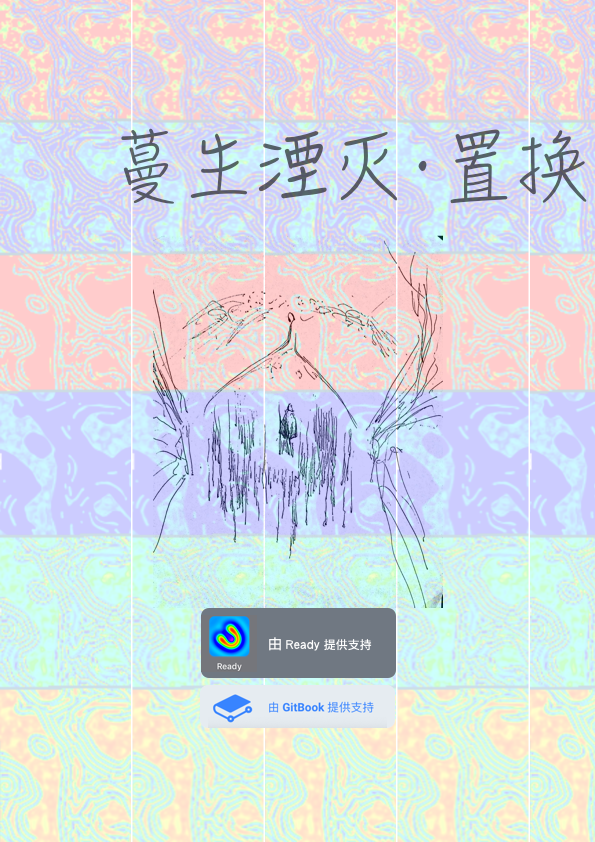
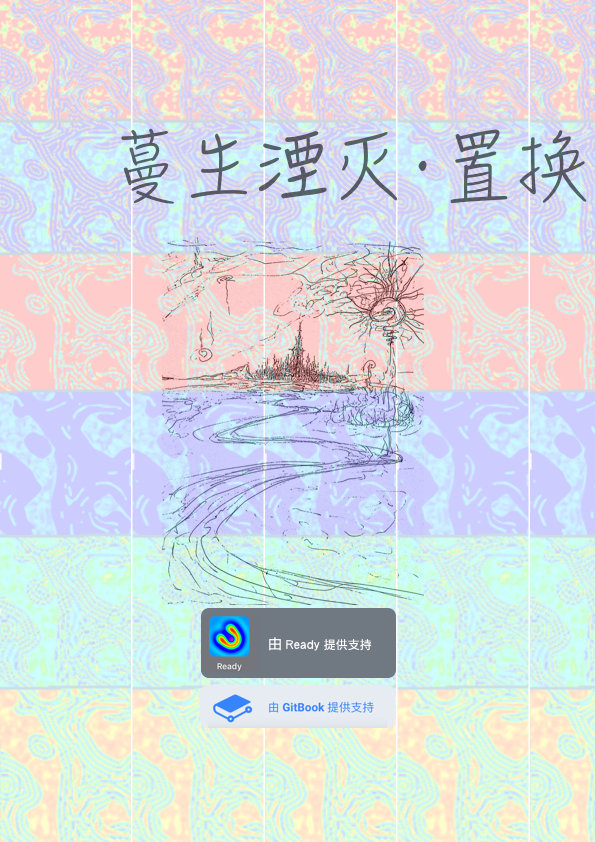
GitBook: [master] 2 pages and 2 assets modified

Changed region(s): [[0.242, 0.2779, 0.7563, 0.7411]]

diff --git a/README.md b/README.md
@@ -16,8 +16,6 @@
 
 《蔓生湮灭·置换》—— 若尘界，废土
 
-![](.gitbook/assets/4.png)
-
 《蔓生湮灭·言零》—— 言晦界，远程传送与超时空干涉
 
 ![](.gitbook/assets/5.png)

diff --git a/man-sheng-yan-mie-huan-yao/README.md b/man-sheng-yan-mie-huan-yao/README.md
@@ -2,7 +2,7 @@
 
 ## 封面
 
-![](../.gitbook/assets/3.png)
+![](../.gitbook/assets/3%20%281%29.png)
 
 ## 简介
 
